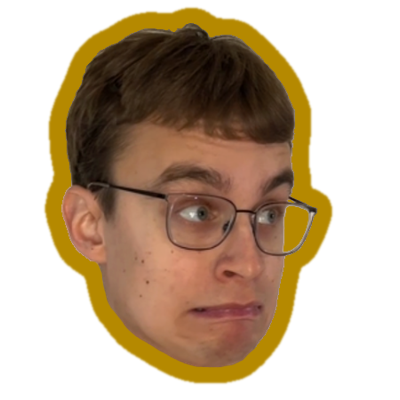
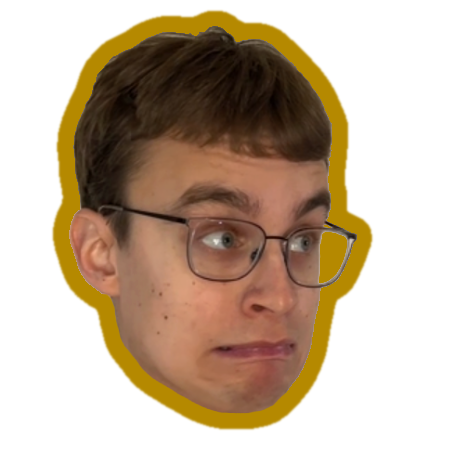
Make images larger

diff --git a/src/assets/images/add_border.py b/src/assets/images/add_border.py
@@ -5,7 +5,7 @@ except ImportError:
     raise
 
 
-IMAGE_SIZE = 400
+IMAGE_SIZE = 450
 # The radius of the Gaussian blur used to expand the mask.
 # Not sure this corresponds to pixels.
 BORDER_RADIUS = 7
